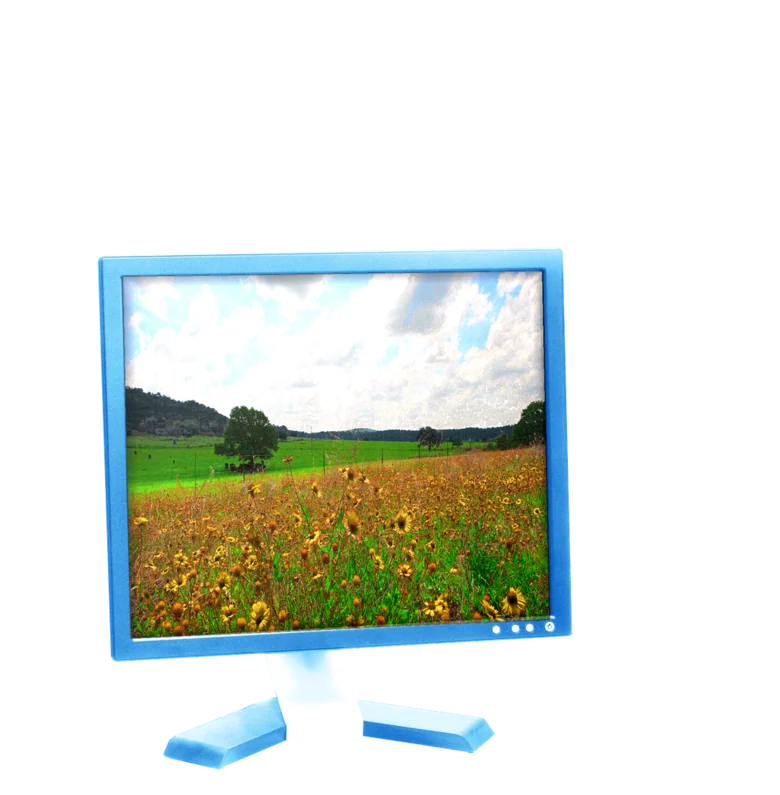
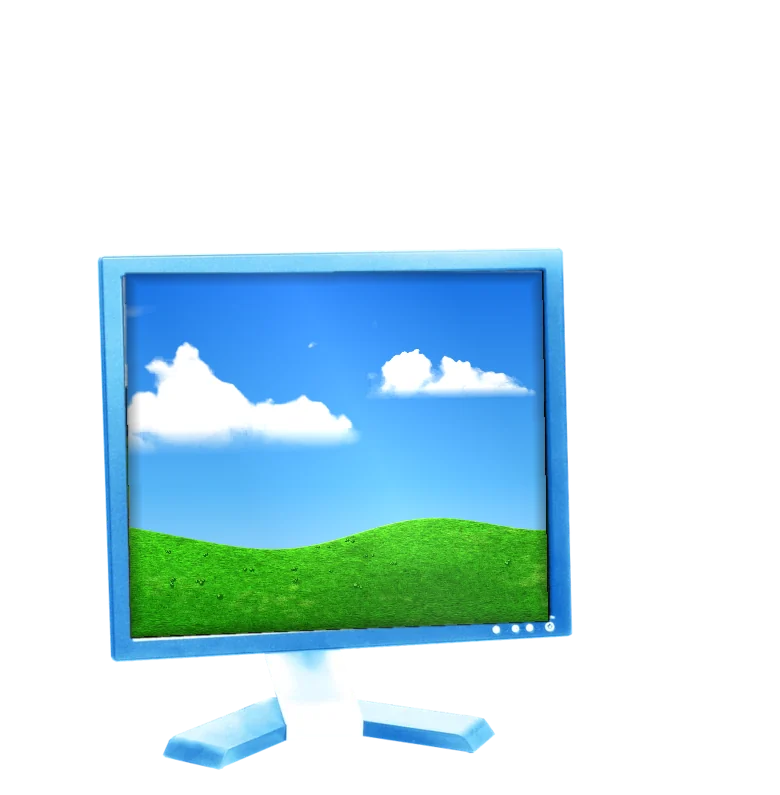
feat: photographic Milan skyline cluster, Bliss-style monitor screen, remove butterfly

Changed region(s): [[0.1538, 0.3321, 0.7077, 0.8151]]

diff --git a/bucketer/dashboard/static/aero/animals.html b/bucketer/dashboard/static/aero/animals.html
@@ -1,1 +1,1 @@
-<div class="aero-animals-front" aria-hidden="true"><div class="aero-swim"><div class="aero-big aero-idol-a"><i class="aero-bob"><b class="aero-img aero-idol"></b></i></div><div class="aero-big aero-clown-a"><i class="aero-bob"><b class="aero-img aero-clown"></b></i></div></div><div class="aero-bf"><i class="aero-bfp"><b class="aero-bfw"></b></i></div><div class="aero-leap" style="--off:-6.2s"><div class="aero-leapclip"><i class="aero-dolphin"><b class="aero-img aero-dol"></b></i></div><span class="aero-foam aero-foam-a"></span><span class="aero-foam aero-foam-b"></span><i class="aero-dr aero-dr-a" style="--dx:-51px;--dy:69px;--r:9.8px;--dl:0.70s"></i><i class="aero-dr aero-dr-a" style="--dx:-27px;--dy:105px;--r:7.0px;--dl:0.76s"></i><i class="aero-dr aero-dr-a" style="--dx:12px;--dy:123px;--r:11.2px;--dl:0.72s"></i><i class="aero-dr aero-dr-a" style="--dx:42px;--dy:90px;--r:7.0px;--dl:0.80s"></i><i class="aero-dr aero-dr-a" style="--dx:69px;--dy:57px;--r:8.4px;--dl:0.74s"></i><i class="aero-dr aero-dr-a" style="--dx:-72px;--dy:42px;--r:5.6px;--dl:0.82s"></i><i class="aero-dr aero-dr-b" style="--dx:-51px;--dy:69px;--r:9.8px;--dl:5.70s"></i><i class="aero-dr aero-dr-b" style="--dx:-27px;--dy:105px;--r:7.0px;--dl:5.76s"></i><i class="aero-dr aero-dr-b" style="--dx:12px;--dy:123px;--r:11.2px;--dl:5.72s"></i><i class="aero-dr aero-dr-b" style="--dx:42px;--dy:90px;--r:7.0px;--dl:5.80s"></i><i class="aero-dr aero-dr-b" style="--dx:69px;--dy:57px;--r:8.4px;--dl:5.74s"></i><i class="aero-dr aero-dr-b" style="--dx:-72px;--dy:42px;--r:5.6px;--dl:5.82s"></i><i class="aero-tr" style="--lx:64%;--by:0.56;--dl:2.0s"></i><i class="aero-tr" style="--lx:58%;--by:0.7;--dl:2.5s"></i><i class="aero-tr" style="--lx:52%;--by:0.76;--dl:3.0s"></i><i class="aero-tr" style="--lx:46%;--by:0.66;--dl:3.5s"></i><i class="aero-tr" style="--lx:40%;--by:0.5;--dl:4.0s"></i></div></div>
+<div class="aero-animals-front" aria-hidden="true"><div class="aero-swim"><div class="aero-big aero-idol-a"><i class="aero-bob"><b class="aero-img aero-idol"></b></i></div><div class="aero-big aero-clown-a"><i class="aero-bob"><b class="aero-img aero-clown"></b></i></div></div><div class="aero-leap" style="--off:-6.2s"><div class="aero-leapclip"><i class="aero-dolphin"><b class="aero-img aero-dol"></b></i></div><span class="aero-foam aero-foam-a"></span><span class="aero-foam aero-foam-b"></span><i class="aero-dr aero-dr-a" style="--dx:-51px;--dy:69px;--r:9.8px;--dl:0.70s"></i><i class="aero-dr aero-dr-a" style="--dx:-27px;--dy:105px;--r:7.0px;--dl:0.76s"></i><i class="aero-dr aero-dr-a" style="--dx:12px;--dy:123px;--r:11.2px;--dl:0.72s"></i><i class="aero-dr aero-dr-a" style="--dx:42px;--dy:90px;--r:7.0px;--dl:0.80s"></i><i class="aero-dr aero-dr-a" style="--dx:69px;--dy:57px;--r:8.4px;--dl:0.74s"></i><i class="aero-dr aero-dr-a" style="--dx:-72px;--dy:42px;--r:5.6px;--dl:0.82s"></i><i class="aero-dr aero-dr-b" style="--dx:-51px;--dy:69px;--r:9.8px;--dl:5.70s"></i><i class="aero-dr aero-dr-b" style="--dx:-27px;--dy:105px;--r:7.0px;--dl:5.76s"></i><i class="aero-dr aero-dr-b" style="--dx:12px;--dy:123px;--r:11.2px;--dl:5.72s"></i><i class="aero-dr aero-dr-b" style="--dx:42px;--dy:90px;--r:7.0px;--dl:5.80s"></i><i class="aero-dr aero-dr-b" style="--dx:69px;--dy:57px;--r:8.4px;--dl:5.74s"></i><i class="aero-dr aero-dr-b" style="--dx:-72px;--dy:42px;--r:5.6px;--dl:5.82s"></i><i class="aero-tr" style="--lx:64%;--by:0.56;--dl:2.0s"></i><i class="aero-tr" style="--lx:58%;--by:0.7;--dl:2.5s"></i><i class="aero-tr" style="--lx:52%;--by:0.76;--dl:3.0s"></i><i class="aero-tr" style="--lx:46%;--by:0.66;--dl:3.5s"></i><i class="aero-tr" style="--lx:40%;--by:0.5;--dl:4.0s"></i></div></div>

diff --git a/bucketer/dashboard/static/aero/animals.css b/bucketer/dashboard/static/aero/animals.css
@@ -1,6 +1,6 @@
-/* lane: animals (z20, so they pass "behind" the card column). Facing: dolphin, clownfish photos face LEFT; moorish idol, goldfish, butterfly face RIGHT. Underwater swimmers live between the dock (62px) and the waterline (--aw-h). Dolphins break the surface at the crest line, with a splash crown (ring + droplet fan) timed to the leap; a single dolphin leaps in the right-hand water, clear of the monitor on the left. */
+/* lane: animals (z20, so they pass "behind" the card column). Facing: dolphin, clownfish photos face LEFT; moorish idol, goldfish, face RIGHT. Underwater swimmers live between the dock (62px) and the waterline (--aw-h). Dolphins break the surface at the crest line, with a splash crown (ring + droplet fan) timed to the leap; a single dolphin leaps in the right-hand water, clear of the monitor on the left. */
 .aero-animals-front{position:fixed;inset:0;z-index:8;pointer-events:none;overflow:hidden;--dw:clamp(190px,calc((100vw - 1100px) / 2 + 70px),400px);
- --ai-dol:url(img/aero_dolphin_leap.webp);--ai-clown:url(img/aero_clownfish_big.webp);--ai-idol:url(img/aero_moorish_idol.webp);--ai-bf:url(img/aero_butterfly.webp)}
+ --ai-dol:url(img/aero_dolphin_leap.webp);--ai-clown:url(img/aero_clownfish_big.webp);--ai-idol:url(img/aero_moorish_idol.webp)}
 .aero-animals-front,.v3-mon{--ai-gold:url(img/aero_goldfish.webp)}
 .aero-animals-front i,.aero-animals-front b{display:block;font-style:normal}
 .aero-img{display:block;width:100%;height:100%;background-repeat:no-repeat;background-position:center;background-size:contain}
@@ -20,13 +20,6 @@
 .aero-clown-a .aero-bob{animation-duration:7s;animation-delay:-2s}
 
 
-/* butterfly: wandering flutter path in the left margin, wing flap via scaleX */
-.aero-bf{position:absolute;left:clamp(60px,10vw,200px);top:34vh;width:84px;aspect-ratio:700/502;animation:aero-bfpath 22s ease-in-out infinite alternate}
-.aero-bfp{width:100%;height:100%;animation:aero-bfbob 1.1s ease-in-out infinite alternate}
-.aero-bfw{width:100%;height:100%;background:var(--ai-bf) no-repeat center/contain;filter:saturate(1.3) drop-shadow(0 5px 4px rgba(0,50,100,.3));animation:aero-flap .2s ease-in-out infinite alternate}
-@keyframes aero-bfpath{0%{translate:0 0;rotate:-6deg}25%{translate:90px -90px;rotate:10deg}50%{translate:20px -170px;rotate:-12deg}75%{translate:110px -60px;rotate:8deg}100%{translate:30px 90px;rotate:-4deg}}
-@keyframes aero-bfbob{to{transform:translateY(-10px)}}
-@keyframes aero-flap{from{transform:scaleX(1)}to{transform:scaleX(.5)}}
 
 
 /* leaping dolphins at the crest line, splash crown at exit and entry */

diff --git a/bucketer/dashboard/static/aero/v3.css b/bucketer/dashboard/static/aero/v3.css
@@ -41,11 +41,11 @@ html{background:linear-gradient(165deg,#1a5fc4 0,#3b93e6 24%,#7cc4f2 50%,#bfe5f8
 
 /* ===== hills: sway, mouse parallax, travelling light wave and cloud shadows ===== */
 .hs-hill{left:-5vw;right:-5vw}
-.hs-hill.far{animation:v3-sway 52s ease-in-out infinite alternate}
-.hs-hill.mid{animation:v3-sway 38s ease-in-out -9s infinite alternate-reverse}
+.hs-hill.far{filter:hue-rotate(-24deg) saturate(1.45) contrast(1.15) brightness(.92);animation:v3-sway 52s ease-in-out infinite alternate}
+.hs-hill.mid{filter:saturate(1.15) contrast(1.05);animation:v3-sway 38s ease-in-out -9s infinite alternate-reverse}
 .hs-hill.near{animation:v3-sway 29s ease-in-out -4s infinite alternate}
 @keyframes v3-sway{from{translate:-1.6vw 0}to{translate:1.6vw 0}}
-.hs-skyline{-webkit-mask-image:linear-gradient(90deg,transparent 0,#000 3%,#000 97%,transparent 100%);mask-image:linear-gradient(90deg,transparent 0,#000 3%,#000 97%,transparent 100%);filter:saturate(1.15) contrast(1.12) brightness(1.04)}
+.hs-skyline{bottom:calc(var(--hh) * .6 + 8vh);filter:saturate(1.05) brightness(1.03)}
 /* haze only touches the very base so the towers stay solid and clearly visible */
 .hs-skyline::after{background:linear-gradient(0deg,rgba(205,238,252,.32),rgba(205,238,252,.08) 22%,rgba(205,238,252,0) 40%)}
 .hs-skyline::before{content:"";position:absolute;left:-2%;right:-2%;bottom:-2px;height:7%;z-index:1;background:radial-gradient(circle at 50% 100%,#2c9a26 0 58%,transparent 60%) 0 100%/31px 100% repeat-x,radial-gradient(circle at 50% 100%,#1f7e1e 0 56%,transparent 58%) 15px 100%/37px 78% repeat-x}
@@ -82,7 +82,6 @@ html{background:linear-gradient(165deg,#1a5fc4 0,#3b93e6 24%,#7cc4f2 50%,#bfe5f8
 
 /* animals: fish pass behind the glass column instead of showing through it as smudges */
 .aero-swim{position:absolute;inset:0;-webkit-mask-image:linear-gradient(90deg,#000 0,#000 calc(50% - 610px),transparent calc(50% - 540px),transparent calc(50% + 540px),#000 calc(50% + 610px),#000 100%);mask-image:linear-gradient(90deg,#000 0,#000 calc(50% - 610px),transparent calc(50% - 540px),transparent calc(50% + 540px),#000 calc(50% + 610px),#000 100%)}
-.aero-bf{top:24vh}
 
 /* ===== thin-film bubbles: clear centre, thin rim, rainbow film on every one, double specular ===== */
 .aero-bub{background:radial-gradient(circle,rgba(255,255,255,0) 58%,rgba(255,255,255,.12) 84%,rgba(255,255,255,.4) 97%)}

diff --git a/bucketer/dashboard/static/aero/hero.css b/bucketer/dashboard/static/aero/hero.css
@@ -9,7 +9,7 @@
 .hs-hill.mid{background-image:var(--i-mid)}
 .hs-hill.near{background-image:var(--i-near)}
 /* skyline stands between the far and mid hills: it draws over the far ridge and only its bases sit behind the mid ridge (base = middle of the mid ridge band), hazed toward the sky colour */
-.hs-skyline{left:17vw;width:66vw;aspect-ratio:1400/429;bottom:calc(var(--hh) * .6 + 17vh);background:var(--i-sky) no-repeat center bottom/100% 100%;opacity:1}
+.hs-skyline{left:25vw;width:50vw;aspect-ratio:960/374;bottom:calc(var(--hh) * .6 + 17vh);background:var(--i-sky) no-repeat center bottom/100% 100%;opacity:1}
 /* haze tints only the base of the towers, clipped to the tower silhouette; the image alpha is solid so nothing behind (hills, sky) ever shows through */
 .hs-skyline::after{content:"";position:absolute;inset:0;background:linear-gradient(0deg,rgba(205,238,252,.6),rgba(205,238,252,.22) 35%,rgba(205,238,252,0) 65%);-webkit-mask:var(--i-sky) no-repeat center bottom/100% 100%;mask:var(--i-sky) no-repeat center bottom/100% 100%}
 /* glossy glass globe */

diff --git a/bucketer/dashboard/static/img/CREDITS.md b/bucketer/dashboard/static/img/CREDITS.md
@@ -12,10 +12,9 @@ The dashboard scenery is photographic cutouts from Wikimedia Commons (public dom
 | `aero_cloud_2.webp`, `aero_cloud_3.webp` | Sea sky and clouds, Ibiza, Spain.jpg | Joselodos | CC0 | saturation keying, soft underside |
 | `aero_hill_far.webp`, `aero_hill_mid.webp`, `aero_hill_near.webp` | none (generated) | n/a | n/a | generated procedurally (numpy/scipy/Pillow), no third-party imagery; 2x supersampled, blades drawn as tapered polygons |
 | `aero_plane.webp` | A6-EDK Emirates Airbus A380-861 - cn 030 takeoff from Schiphol runway 36C pic3.JPG | Alf van Beem | Public domain | rembg, slight contrast/saturation boost; livery painted out with ImageMagick (fuselage lettering, engine logos replaced by a fuselage-tone gradient, tail stripes and red cheatline desaturated) so it reads as an unmarked jet |
-| `aero_skyline.webp` | Skyscrapers by railway station (Unsplash).jpg | Tony Yeung (tkwyoung) | CC0 | sky keyed, cyan tint, alpha made solid (opaque towers) |
+| `aero_skyline.webp` | Milan skyline skyscrapers of Porta Nuova business district (cropped).jpg | see Commons file page | CC0 | 12 towers hand-cut by sky colour key, composed into one cluster with a low-rise base, natural colour, light haze on back towers, alpha solid |
 | `aero_water.webp` | Dalyan water 2019 G1.jpg | George Chernilevsky | Public domain | cropped, offset-blended to tile, graded to #0090d0..#00b8e6 |
 | `aero_earth.webp` | Blue Marble Western Hemisphere.jpg | NASA / Reto Stöckli (Terra MODIS) | Public domain | circular mask, shadow lift, saturation boost |
-| `aero_butterfly.webp` | Monarch Butterfly.(Danaus plexippus) (14256022010).jpg | Bernard Spragg | CC0 | rembg, saturation boost |
 | `aero_bird.webp` | Black Tern flying (7402338502).jpg (a tern, not a gull) | U.S. Fish and Wildlife Service, Northeast Region | Public domain | rembg |
-| `aero_monitor.webp` | Computer monitor remix transparent.png (derivative of Computer_monitor.jpg); screen replaced by a warped crop of Spring time in the Hill country brings on wild flowers and green grass. (24486794213).jpg | Zzubnik, derivative by AGreuet (monitor); USDA NRCS Texas (landscape) | Public domain / Public domain | shell recoloured with a navy-cobalt-aqua-white luminance ramp to match the site; landscape greens hue-shifted to lime, red flowers to yellow; perspective-warped onto the panel with inner shadow and glare; 0.45x resize |
+| `aero_monitor.webp` | Computer monitor remix transparent.png (derivative of Computer_monitor.jpg); screen shows a Bliss-style picture composed from this project's own `aero_cloud_2/3` and `aero_hill_mid` assets over a sky gradient | Zzubnik, derivative by AGreuet (monitor); see the cloud and hill rows | Public domain / see rows | shell recoloured with a navy-cobalt-aqua-white luminance ramp to match the site; composed screen perspective-warped onto the panel with inner shadow and glare; 0.45x resize |
 | `aero_monitor_water.webp` | Wave splash in Brofjorden at Lahälla 3.jpg | W.carter | CC0 | white spray keyed by whiteness (min channel, low saturation) so rocks and sea drop out, cropped to the eruption, rotated 22 degrees about its base, tinted slightly aqua over a soft cyan underlay, placed at the screen's bottom centre |

diff --git a/bucketer/dashboard/static/img/MANIFEST.md b/bucketer/dashboard/static/img/MANIFEST.md
@@ -12,10 +12,9 @@ All WebP with alpha unless noted. Sizes are pixels (w x h).
 | aero_hill_mid.webp | 3200x693 | rendered: lit meadow slopes, multi-scale grass texture, hedgerows, tiny tree clusters, lime crest rim | bottom-align, blade-detailed; ridge y~100-390 at this size |
 | aero_hill_near.webp | 3200x693 | rendered: deep green hill, individual grass blades along the whole crest and across the body | bottom-align, blade-detailed; ridge y~139-468 at this size; bottom row opaque |
 | aero_plane.webp | 640x169 | Airbus A380 in climb attitude, nose up-left, tail right | livery painted out (unmarked white jet) |
-| aero_skyline.webp | 1400x429 | glass towers, cyan tint | bottom-align; three separate groups with gaps; alpha solid inside silhouettes (opaque) |
+| aero_skyline.webp | 960x374 | dense cluster of 12 towers (Milan), natural colour with light haze | bottom-align; towers overlap into one block; alpha solid inside silhouettes (opaque) |
 | aero_water.webp | 512x512 | OPAQUE seamless tile, cyan ripples/caustics | `background-repeat: repeat` |
 | aero_earth.webp | 600x600 | Blue Marble globe, circular alpha | add gloss overlay in CSS |
-| aero_butterfly.webp | 700x502 | monarch, side view facing right | |
 | aero_bird.webp | 560x540 | black tern in flight, wings spread, diving left | |
 | aero_dolphin_leap.webp | 700x450 | spinner dolphin leaping, natural slate-grey grade (no gradient map; same orientation as before) | aspect 1.56 |
 | aero_clownfish_big.webp | 700x413 | clownfish facing left | aspect 1.69 (was 1.71) |
